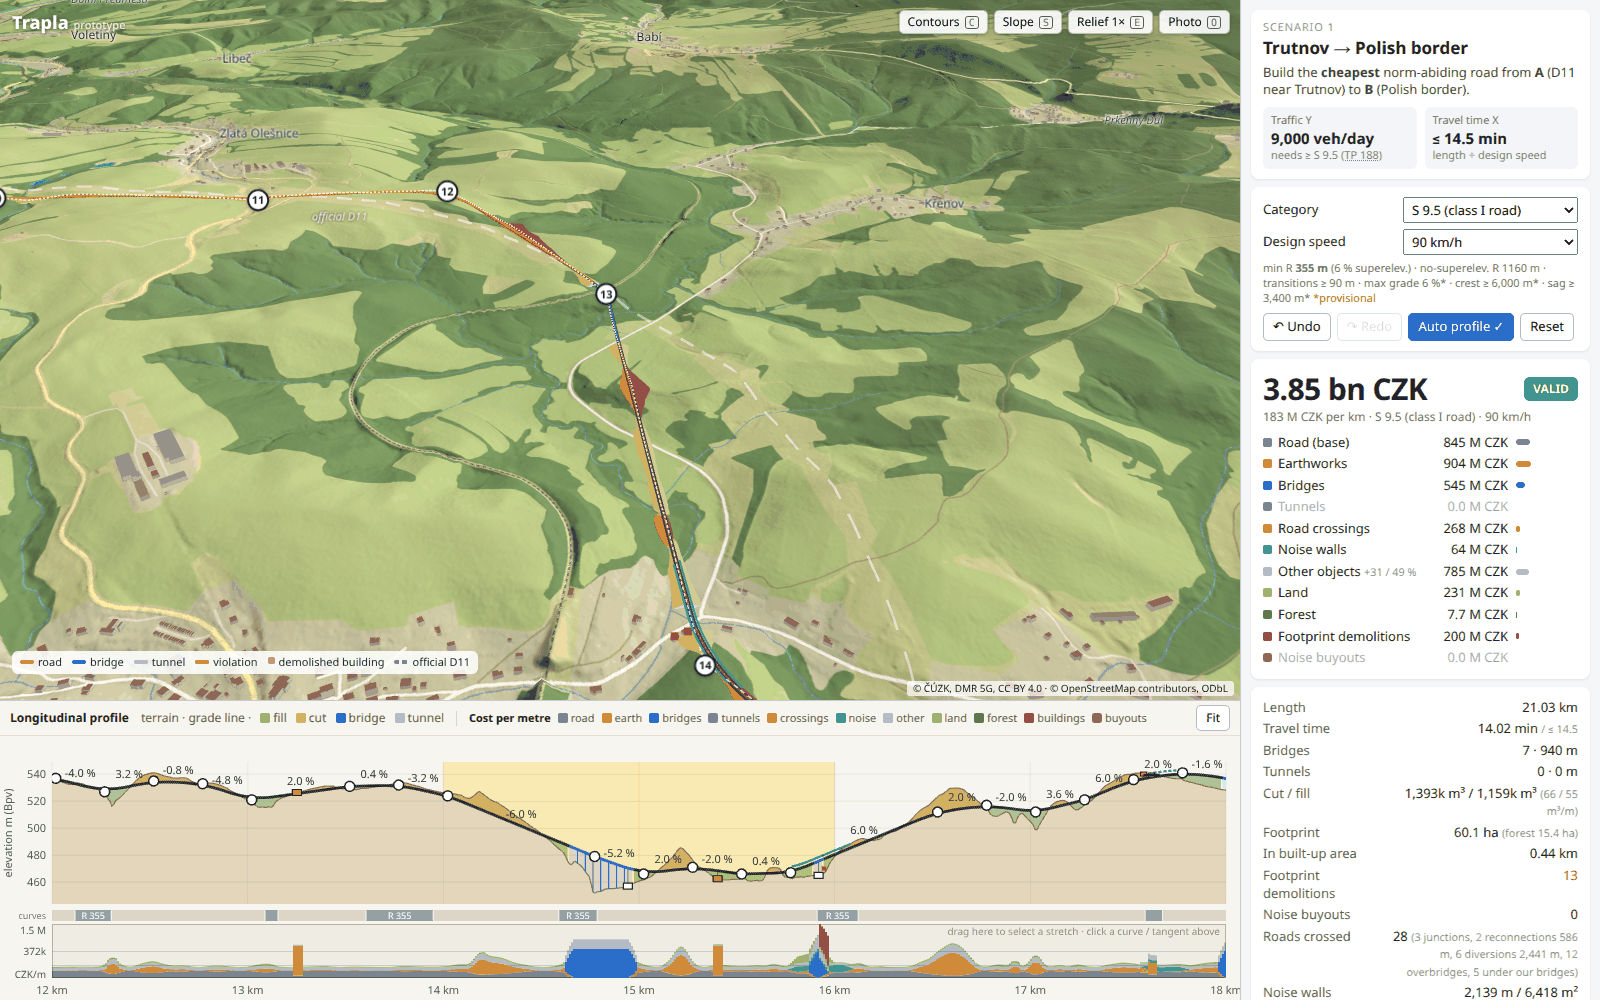
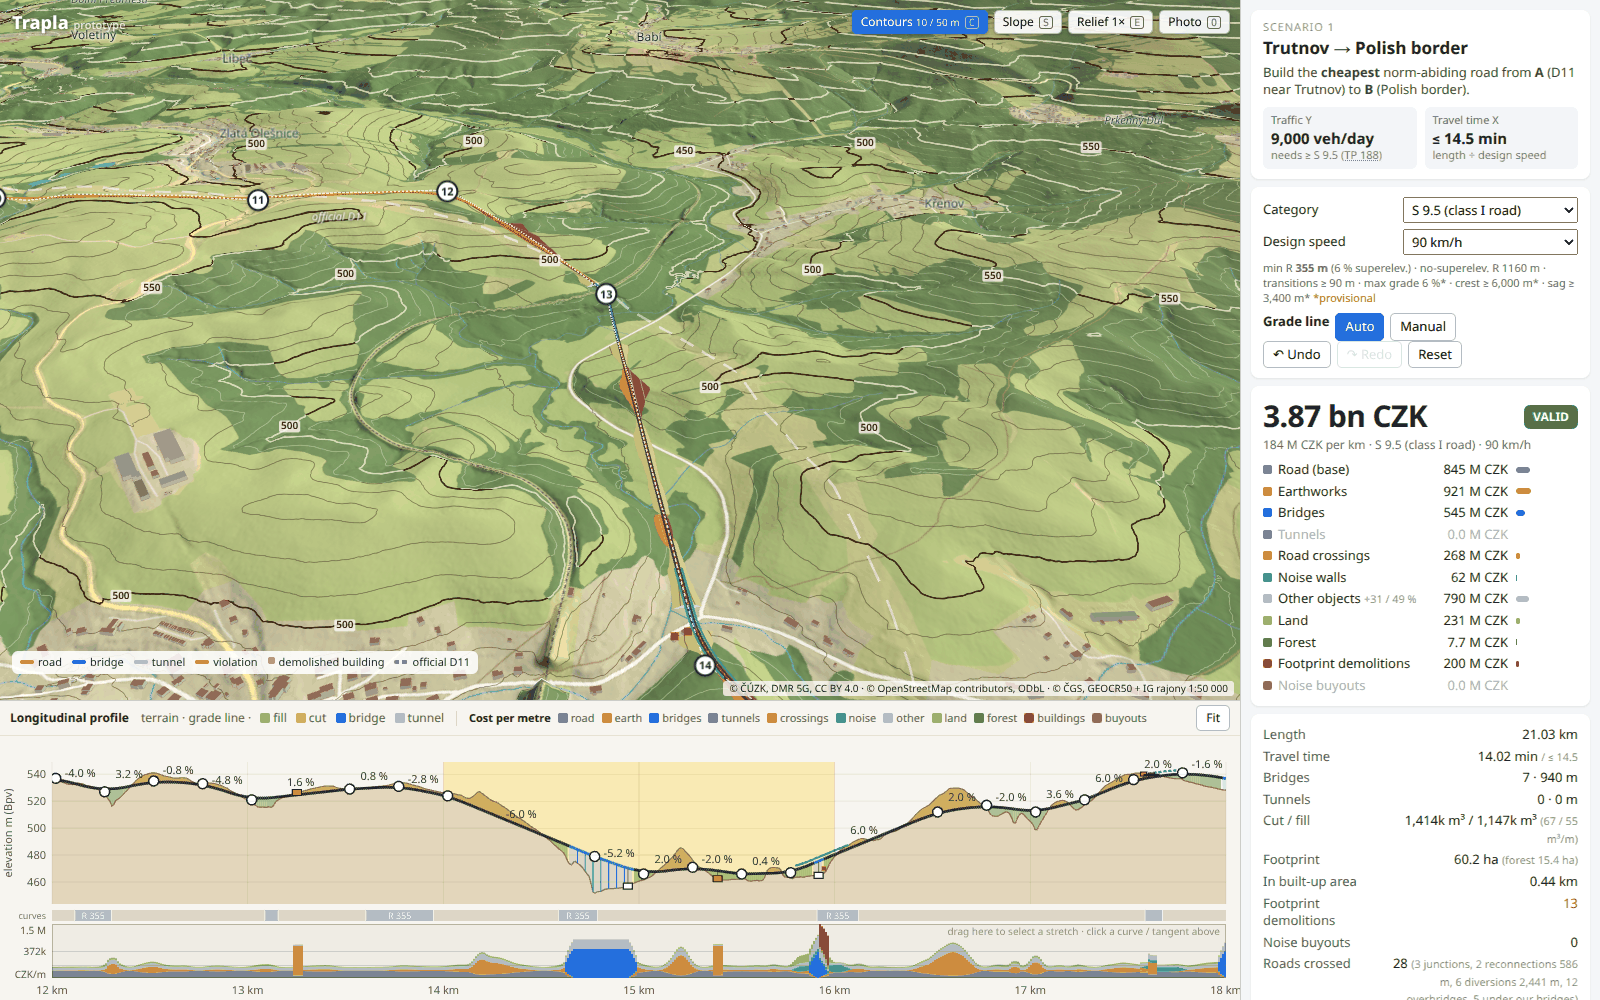
Publish model 11 design comparisons and final valley screenshots

diff --git a/PLAN.md b/PLAN.md
@@ -115,7 +115,8 @@ What exists (details and commands in `README.md`):
   straight line with the automatic (legal) grade line; the cost of a design that is not valid is struck through.
 - **Rules added during the build** (game rules, not norm values): river / water-area / railway crossings are
   always bridged (≥ 30 m) and need the grade ≥ 3 m above a river and ≥ 7.5 m above a railway (otherwise a
-  violation; the auto-profile respects it); streams are assumed culverted (in the norm). Since cost model 3
+  violation; the auto-profile respects it); ordinary stream drainage is in the norm, with excess culvert
+  barrel length priced explicitly since model 11. Since cost model 3
   motorways / expressways are treated the same way (see "Crossing existing roads"). Bridges are only
   considered ≥ 4 m above ground and bored tunnels with ≥ 14 m of cover; minimum bridge 30 m, tunnel 150 m;
   earthwork gaps shorter than 60 m (bridges) / 150 m (tunnels) are merged. Road base price is charged on at-grade
@@ -544,6 +545,48 @@ difference is calculated once per pair, avoiding three attenuation logarithms. T
 - Motorway / expressway crossings: the auto-profile requests a bridge clearance rather than optimising
   the cut-and-overbridge alternative (which manual profiles can choose); the forced bridge is the 30 m minimum whatever
   the motorway's width and the crossing angle.
+
+## Bridges vs high fills, player overrides (cost model 11)
+
+- Benched fill/cut geometry now contributes real volume and footprint; high earthworks pay a separate
+  **provisional** stability/ground-treatment reserve even with free surplus soil. Stream crossings pay
+  excess culvert length beyond norm drainage. Bill, structure selector, balance estimate and DP share these
+  terms, including the merged ČGS geology categories. Sources, uncertainties and formulas: research/15.
+- Flat rural S9.5 bridge break-even at material value λ=200: **26.85 → 16.62 m**; at λ=0:
+  **47.03 → 18.62 m**; at λ=−196.4: no old economic crossing → **21.03 m**. Reproduce with
+  `npx tsx scripts/bridge-break-even.ts`. This is mostly the provisional engineering reserve, not a newly
+  discovered ČSN limit. No unsupported hard height cap or bridge-height price curve was introduced.
+- Profile range **B/T/E/C** paints bridge/tunnel/earthwork/automatic; persisted, undoable, partial repaint/
+  erase, visible on map/profile, and respected by Auto. Invalid height/cover, short runs and forced crossings
+  produce explicit game-rule violations. Ranges retain absolute chainage when the plan changes.
+- **Grade line: Auto | Manual** replaces the ambiguous button. Auto seeks a low-cost legal vertical line;
+  Manual freezes it for vertical-point edits. Auto replaces manual vertical edits but keeps structure paint.
+- KHK regional/nadregional ÚSES is available and cached (47 polygons, ~0.49 MB) by
+  `uv run pipeline/fetch_uses.py`. No automatic ecological bridge mandates: current plan status, local
+  corridors, flood hydraulics and suitable passage dimensions need further work.
+
+Five-design comparison, **M CZK**, all VALID and per-cell parts sum correctly:
+
+| Design | Task-start model 6 | Upstream model 10, same plan | Model 11, same plan | Refreshed saved design, model 11 |
+|---|---:|---:|---:|---:|
+| best bypass | 3,038 | 3,325 | 3,871 | **3,738** |
+| demo | 3,949 | 4,144 | 5,077 | **4,099** |
+| direct 80 | 3,470 | 3,694 | 4,150 | **4,062** |
+| direct 90 | 3,626 | 3,873 | 4,588 | **4,382** |
+| town-centre reference | 9,024 | 9,035 | 10,580 | **10,580** |
+
+Original plans are recoverable at `a86f39c:scripts/*-design.json`; model-10 baseline is `15c4f92`.
+Four candidates got 100 seeded continuation trials (1510) and 50 more after geology integration (1511).
+Town-centre geometry is intentionally held fixed as a reference, not optimised out of the town; all five
+JSONs now record model 11. Final lengths/times: best 21.08 km/14.05 min, demo 21.11/14.07,
+80 19.10/14.33, 90 19.33/12.89, town 18.94/12.62. These short local searches are not global optima.
+
+On the original best plan, maximum fill **27.1 → 19.5 m**, bridges **550 → 940 m**. Comparable captures:
+[owner-valley before](docs/screenshots/valley-owner-before.png) /
+[after](docs/screenshots/valley-owner-after.png), plus [km 14–16 before](docs/screenshots/valley-before.png) /
+[after](docs/screenshots/valley-after.png). Captures keep the original horizontal plan, not the refreshed
+optimised route; owner-view centre is km 17.5 (near old PI 15). `CHAINAGE=17500 node scripts/valley.mjs`
+reproduces that framing. The map ribbon still simplifies benches to the crown/daylight surface.
 
 ## Horizontal curve rules and long curves (2026-11-14)
 
